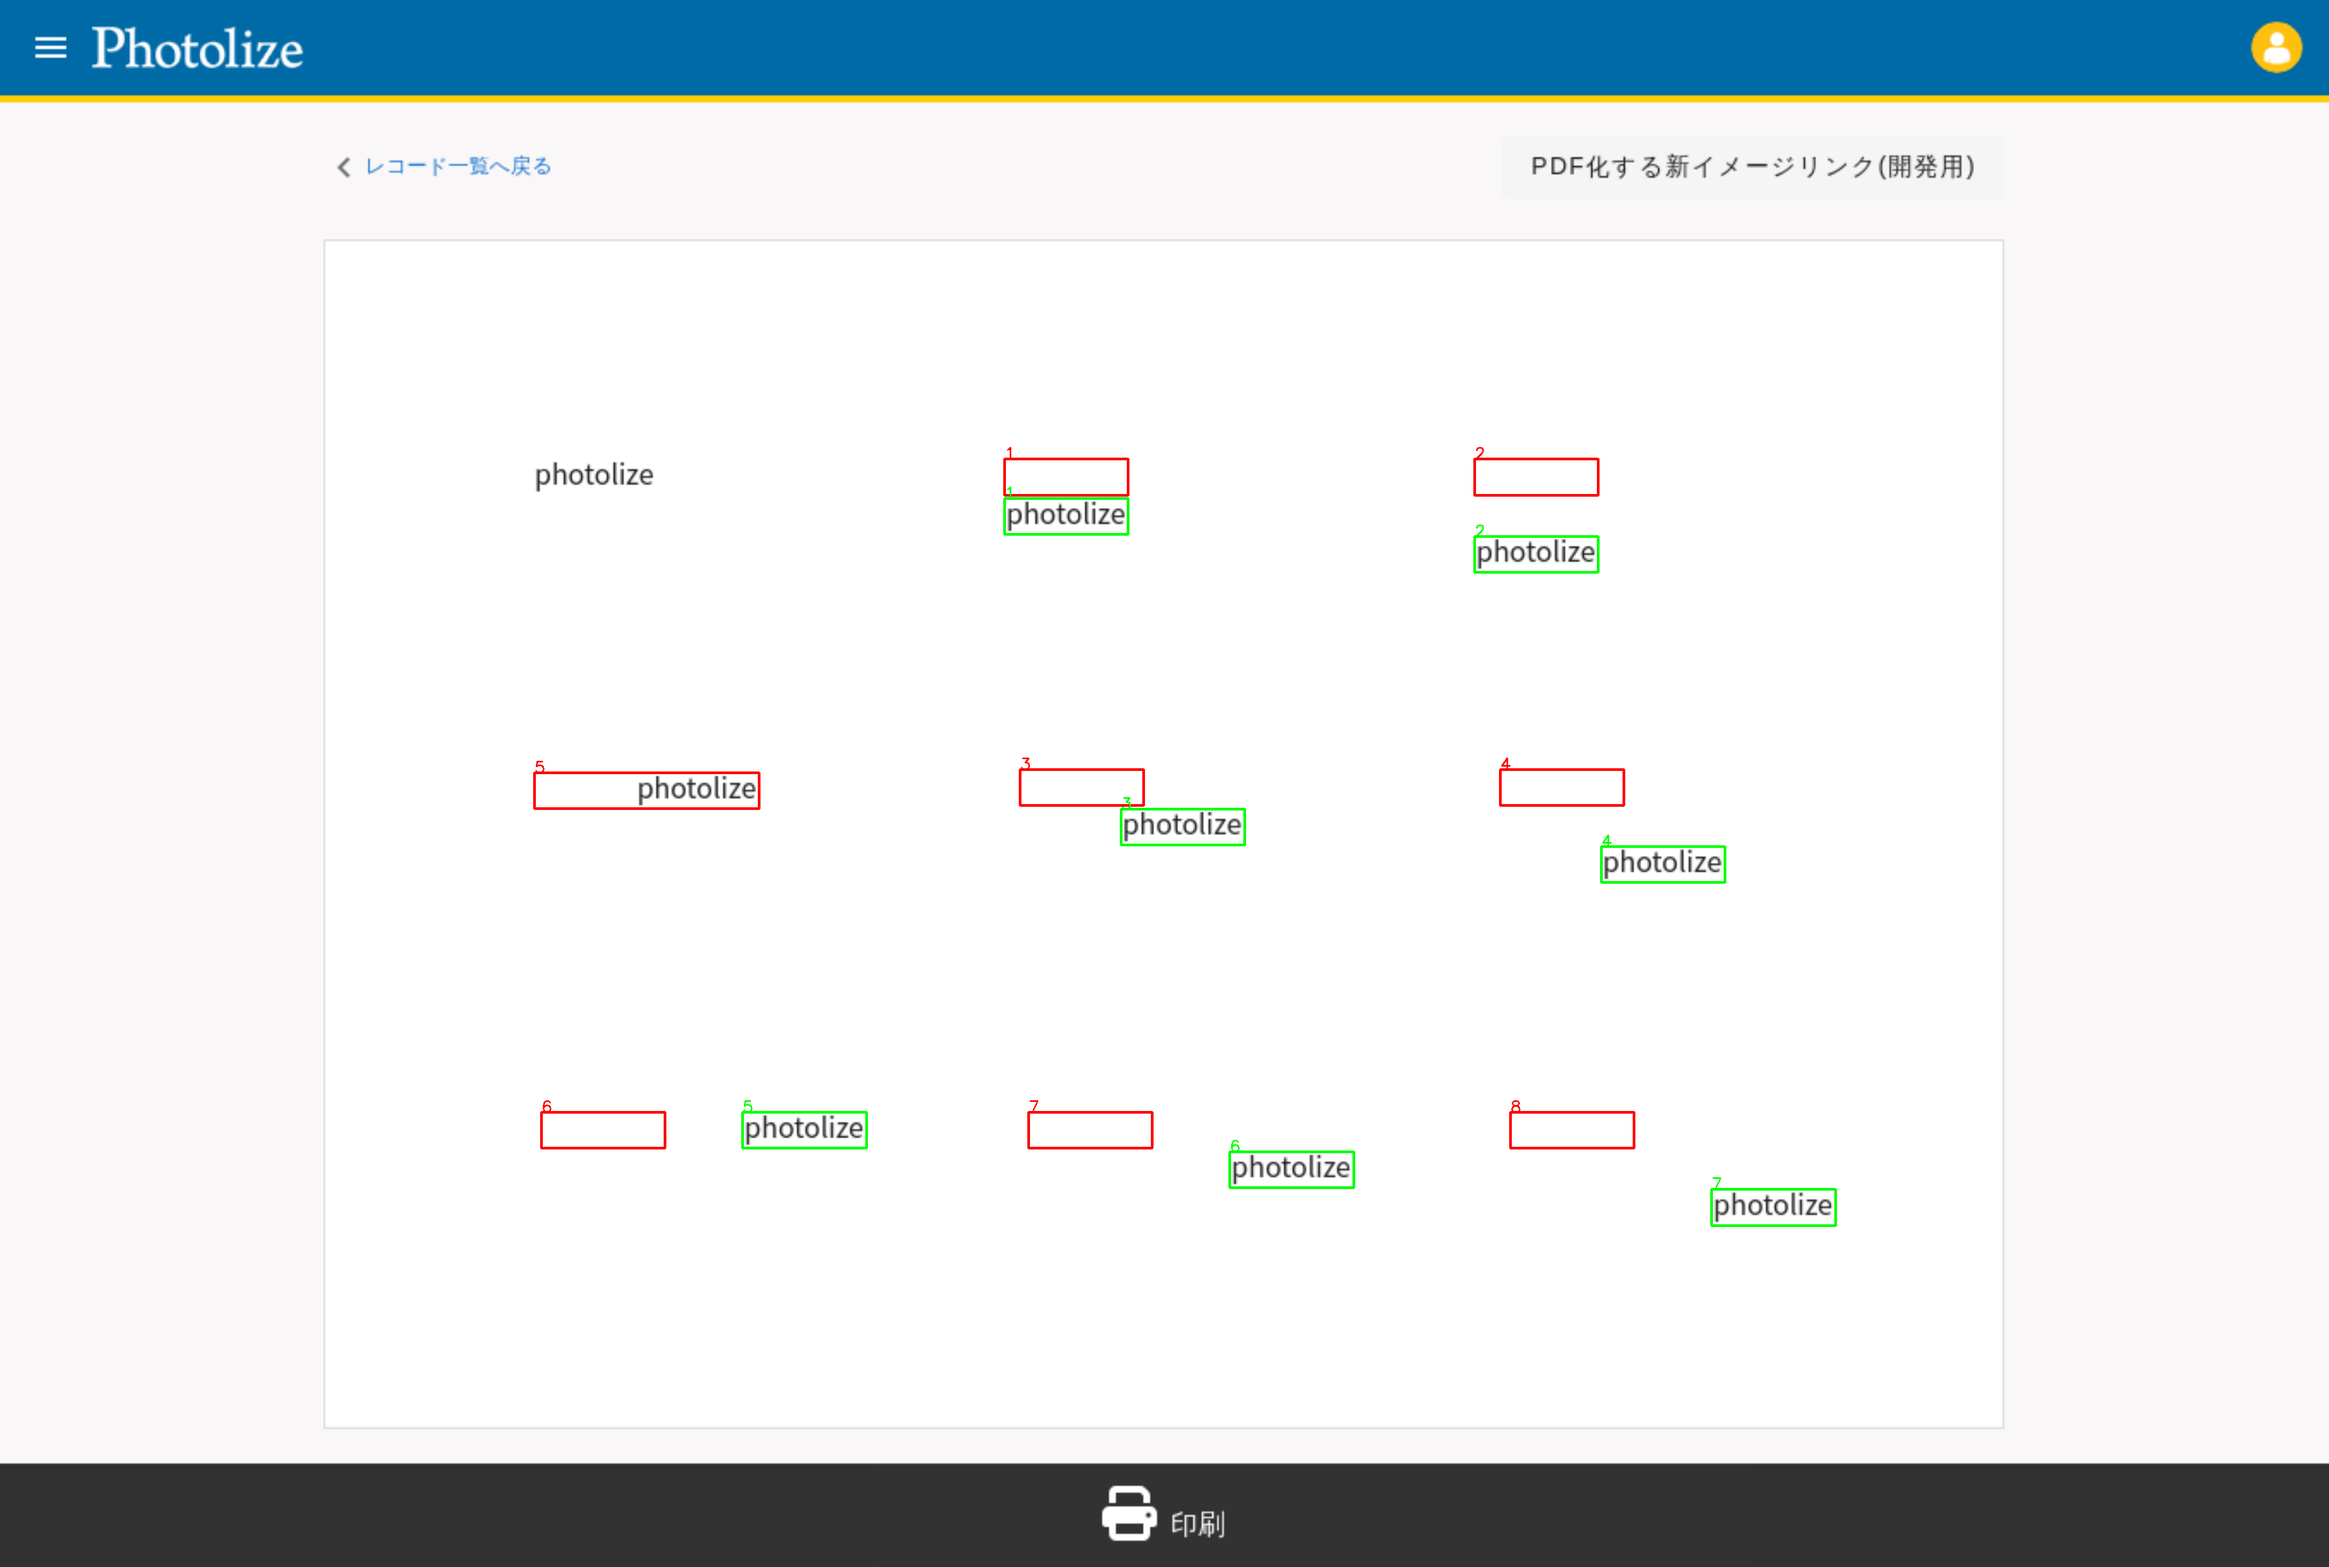
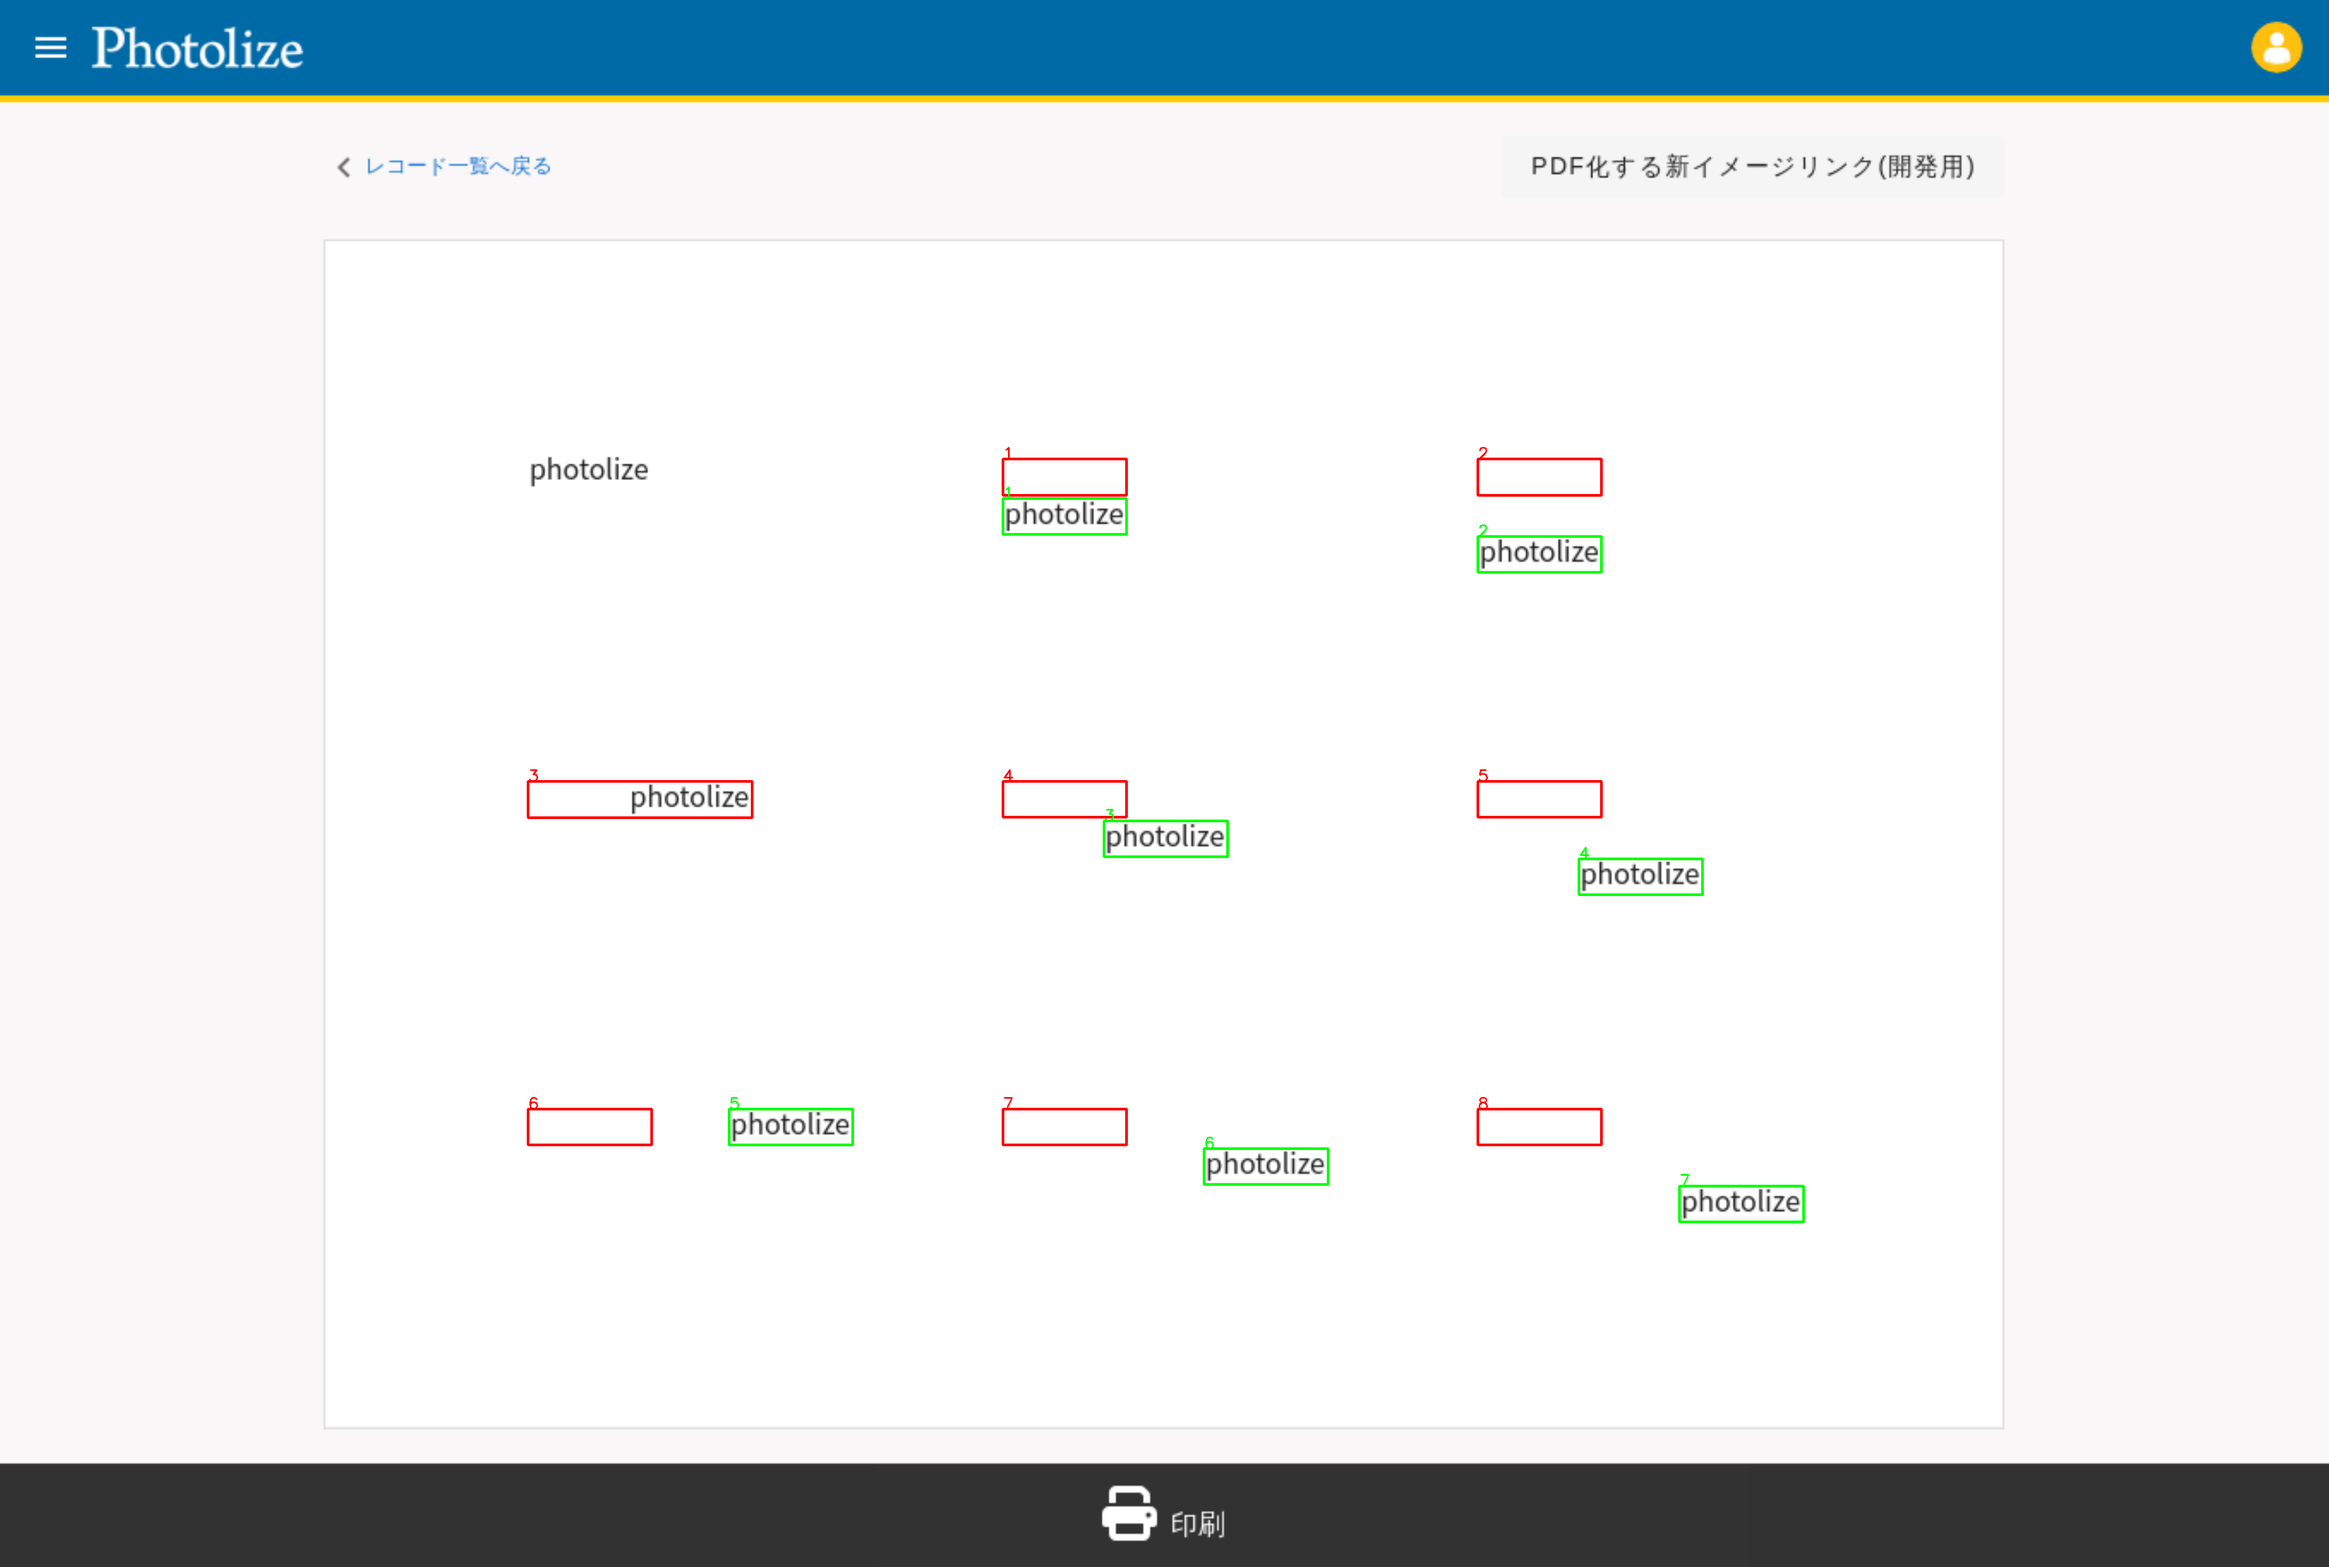
add,fix: 重なった文字列に対しても枠付けできるよう修正

diff --git a/python/TestScript/photolize/singleLineText/detect_rec3_judge2.py b/python/TestScript/photolize/singleLineText/detect_rec3_judge2.py
@@ -32,22 +32,70 @@ diff = cv2.absdiff(img1_gray, img2_gray)
 ret, diff = cv2.threshold(diff, 0, 255, cv2.THRESH_BINARY + cv2.THRESH_OTSU)
 diff = cv2.GaussianBlur(diff, (11, 11), 0)
 
-# 差分画像から枠の座標を取得
-contours, _ = cv2.findContours(diff, cv2.RETR_EXTERNAL, cv2.CHAIN_APPROX_SIMPLE)
+### 枠づけ ###
 red_rectangles = []  # 赤枠の情報を格納するリスト
 green_rectangles = []  # 緑枠の情報を格納するリスト
 
-for c in contours:
+# 画像Aから画像Bを引くことで1枚目の画像の差分のみを取得
+diff_img1 = cv2.subtract(img1_gray, img2_gray)
+diff_img2 = cv2.subtract(img2_gray, img1_gray)
+
+# 二値化
+ret, diff_img1 = cv2.threshold(diff_img1, 0, 255, cv2.THRESH_BINARY + cv2.THRESH_OTSU)
+diff_img1 = cv2.GaussianBlur(diff_img1, (11, 11), 0)
+ret, diff_img2 = cv2.threshold(diff_img2, 0, 255, cv2.THRESH_BINARY + cv2.THRESH_OTSU)
+diff_img2 = cv2.GaussianBlur(diff_img2, (11, 11), 0)
+
+# 差分画像に輪郭を描画
+contours1, _ = cv2.findContours(diff_img1, cv2.RETR_EXTERNAL, cv2.CHAIN_APPROX_SIMPLE)
+contours2, _ = cv2.findContours(diff_img2, cv2.RETR_EXTERNAL, cv2.CHAIN_APPROX_SIMPLE)
+all_contours = contours1 + contours2
+print("抽出された輪郭の数:", len(all_contours))
+for c in all_contours:
     x, y, w, h = cv2.boundingRect(c)
     if w > 1 and h > 1:
         if img2[y:y+h, x:x+w].mean() > img1[y:y+h, x:x+w].mean():
             # 差異が２枚目の画像で大きい場合、赤色で表示
-            cv2.rectangle(img2, (x, y), (x + w, y + h), (0, 0, 255), 3)
+            cv2.rectangle(img2, (x, y), (x + w, y + h), (0, 0, 255), 2)
             red_rectangles.append((x, y, w, h))
         else:
             # 差異が１枚目の画像で大きい場合、緑色で表示
             cv2.rectangle(img2, (x, y), (x + w, y + h), (0, 255, 0), 3)
             green_rectangles.append((x, y, w, h))
+        
+
+# 画像Bから画像Aを引くことで2枚目の画像の差分のみを取得
+# diff_img2 = cv2.subtract(img2_gray, img1_gray)
+
+# 二値化
+# ret, diff_img2 = cv2.threshold(diff_img2, 0, 255, cv2.THRESH_BINARY + cv2.THRESH_OTSU)
+# diff_img2 = cv2.GaussianBlur(diff_img2, (11, 11), 0)
+
+# 差分画像に赤い枠を描画
+# contours, _ = cv2.findContours(diff_img2, cv2.RETR_EXTERNAL, cv2.CHAIN_APPROX_SIMPLE)
+# print("抽出された輪郭の数:", len(contours))
+# for c in contours:
+#     x, y, w, h = cv2.boundingRect(c)
+#     if w > 1 and h > 1:
+#         cv2.rectangle(diff_img2, (x, y), (x + w, y + h), (0, 0, 255), 3)  # 赤枠を描画
+#         red_rectangles.append((x, y, w, h))
+
+# 差分画像から枠の座標を取得
+# contours, _ = cv2.findContours(diff, cv2.RETR_EXTERNAL, cv2.CHAIN_APPROX_SIMPLE)
+# red_rectangles = []  # 赤枠の情報を格納するリスト
+# green_rectangles = []  # 緑枠の情報を格納するリスト
+
+# for c in contours:
+#     x, y, w, h = cv2.boundingRect(c)
+#     if w > 1 and h > 1:
+#         if img2[y:y+h, x:x+w].mean() > img1[y:y+h, x:x+w].mean():
+#             # 差異が２枚目の画像で大きい場合、赤色で表示
+#             cv2.rectangle(img2, (x, y), (x + w, y + h), (0, 0, 255), 3)
+#             red_rectangles.append((x, y, w, h))
+#         else:
+#             # 差異が１枚目の画像で大きい場合、緑色で表示
+#             cv2.rectangle(img2, (x, y), (x + w, y + h), (0, 255, 0), 3)
+#             green_rectangles.append((x, y, w, h))
 
 # 赤枠の座標をy座標が0に近い順、次にx座標が0に近い順にソート
 red_rectangles.sort(key=lambda rect: (rect[1], rect[0]))
@@ -80,8 +128,8 @@ for i, (x1, y1, w1, h1) in enumerate(red_rectangles, start=1):
             print(f"赤枠 {i} と緑枠 {j} は対応します")
 
 # 差分画像を保存
-output_file_name = f"draw_rec3_judge_high_{output_file_name_B.split('_')[1]}"
-output_dir2 = os.path.join(os.path.dirname(os.path.abspath(__file__)), "draw_rec3_judge_high_png")
+output_file_name = f"draw_rec3_judge2_high_{output_file_name_B.split('_')[1]}"
+output_dir2 = os.path.join(os.path.dirname(os.path.abspath(__file__)), "draw_rec3_judge2_high_png")
 # フォルダが存在しない場合は作成
 if not os.path.exists(output_dir2):
     os.makedirs(output_dir2)

diff --git a/python/TestScript/photolize/singleLineText/diff_img_rec.py b/python/TestScript/photolize/singleLineText/diff_img_rec.py
@@ -67,6 +67,59 @@ result_bin = cv2.morphologyEx(result_bin, cv2.MORPH_OPEN, kernel) # オープニ
 result_bin_rgb = cv2.cvtColor(result_bin, cv2.COLOR_GRAY2RGB)
 result_add = cv2.addWeighted(imgA, 0.3, result_bin_rgb, 0.7, 2.2) # ２.２はガンマ値。大きくすると白っぽくなる
 
+### 枠づけ ###
+# 画像Aから画像Bを引くことで1枚目の画像の差分のみを取得
+diff_img1 = cv2.subtract(imgA, imgB_transform)
+diff_img1_gray = cv2.cvtColor(diff_img1, cv2.COLOR_BGR2GRAY)  # グレースケールに変換
+
+# 二値化
+_, diff_img1_bin = cv2.threshold(diff_img1_gray, 50, 255, cv2.THRESH_BINARY)  # 閾値は50
+
+# カーネルを準備（オープニング用）
+kernel = np.ones((2, 2), np.uint8)
+# オープニング（収縮→膨張）実行 ノイズ除去
+diff_img1_bin = cv2.morphologyEx(diff_img1_bin, cv2.MORPH_OPEN, kernel)  # オープニング（収縮→膨張）。ノイズ除去。
+
+# # 差分画像に輪郭を描画
+# contours, _ = cv2.findContours(diff_img1_bin, cv2.RETR_EXTERNAL, cv2.CHAIN_APPROX_SIMPLE)
+# for c in contours:
+#     x, y, w, h = cv2.boundingRect(c)
+#     if w > 1 and h > 1:
+#         cv2.rectangle(diff_img1, (x, y), (x + w, y + h), (0, 0, 255), 3)  # 赤枠を描画
+
+# ２つの画像の差分を表示
+contours, _ = cv2.findContours(diff_img1_bin, cv2.RETR_EXTERNAL, cv2.CHAIN_APPROX_SIMPLE)
+print("抽出された輪郭の数:", len(contours))
+
+for c in contours:
+    x, y, w, h = cv2.boundingRect(c)
+    if w > 1 and h > 1:
+        if imgB[y:y+h, x:x+w].mean() > imgA[y:y+h, x:x+w].mean():
+            # 差異が２枚目の画像で大きい場合、赤色で表示
+            cv2.rectangle(imgB, (x, y), (x + w, y + h), (0, 0, 255), 3)
+        else:
+            # 差異が１枚目の画像で大きい場合、緑色で表示
+            cv2.rectangle(imgB, (x, y), (x + w, y + h), (0, 255, 0), 3)
+
+# 画像Bから画像Aを引くことで2枚目の画像の差分のみを取得
+diff_img2 = cv2.subtract(imgB_transform, imgA)
+diff_img2_gray = cv2.cvtColor(diff_img2, cv2.COLOR_BGR2GRAY)  # グレースケールに変換
+
+# 二値化
+_, diff_img2_bin = cv2.threshold(diff_img2_gray, 50, 255, cv2.THRESH_BINARY)  # 閾値は50
+
+# カーネルを準備（オープニング用）
+kernel = np.ones((2, 2), np.uint8)
+# オープニング（収縮→膨張）実行 ノイズ除去
+diff_img2_bin = cv2.morphologyEx(diff_img2_bin, cv2.MORPH_OPEN, kernel)  # オープニング（収縮→膨張）。ノイズ除去。
+
+# 差分画像に輪郭を描画
+contours, _ = cv2.findContours(diff_img2_bin, cv2.RETR_EXTERNAL, cv2.CHAIN_APPROX_SIMPLE)
+for c in contours:
+    x, y, w, h = cv2.boundingRect(c)
+    if w > 1 and h > 1:
+        cv2.rectangle(diff_img2, (x, y), (x + w, y + h), (0, 0, 255), 3)  # 緑枠を描画
+
 ### 変更前と変更後の色分け ###
 ## 変更前の色付け ##
 # 白色の範囲を定義
@@ -125,6 +178,6 @@ output_dir2 = os.path.join(os.path.dirname(os.path.abspath(__file__)), "diff_col
 output_file_path = os.path.join(output_dir2, output_file_name)
 
 # 画像を保存する
-cv2.imwrite(output_file_path, result_add)
+cv2.imwrite(output_file_path, imgB)
 
 print(f"2つの画像の差異を示した画像を{output_file_path}に保存しました")

diff --git a/python/TestScript/photolize/singleLineText/detect_rec3.py b/python/TestScript/photolize/singleLineText/detect_rec3.py
@@ -32,8 +32,19 @@ diff = cv2.absdiff(img1_gray, img2_gray)
 ret, diff = cv2.threshold(diff, 0, 255, cv2.THRESH_BINARY + cv2.THRESH_OTSU)
 diff = cv2.GaussianBlur(diff, (11, 11), 0)
 
+# # エッジ検出を行う
+# edges = cv2.Canny(diff, threshold1=30, threshold2=100)
+
+# # 輪郭検出を行う
+# contours, _ = cv2.findContours(edges, cv2.RETR_EXTERNAL, cv2.CHAIN_APPROX_SIMPLE)
+
+# # 輪郭を描画する
+# cv2.drawContours(img2, contours, -1, (0, 255, 0), 2)  # 緑色の輪郭を描画
+
 # ２つの画像の差分を表示
 contours, _ = cv2.findContours(diff, cv2.RETR_EXTERNAL, cv2.CHAIN_APPROX_SIMPLE)
+print("抽出された輪郭の数:", len(contours))
+
 for c in contours:
     x, y, w, h = cv2.boundingRect(c)
     if w > 1 and h > 1:
